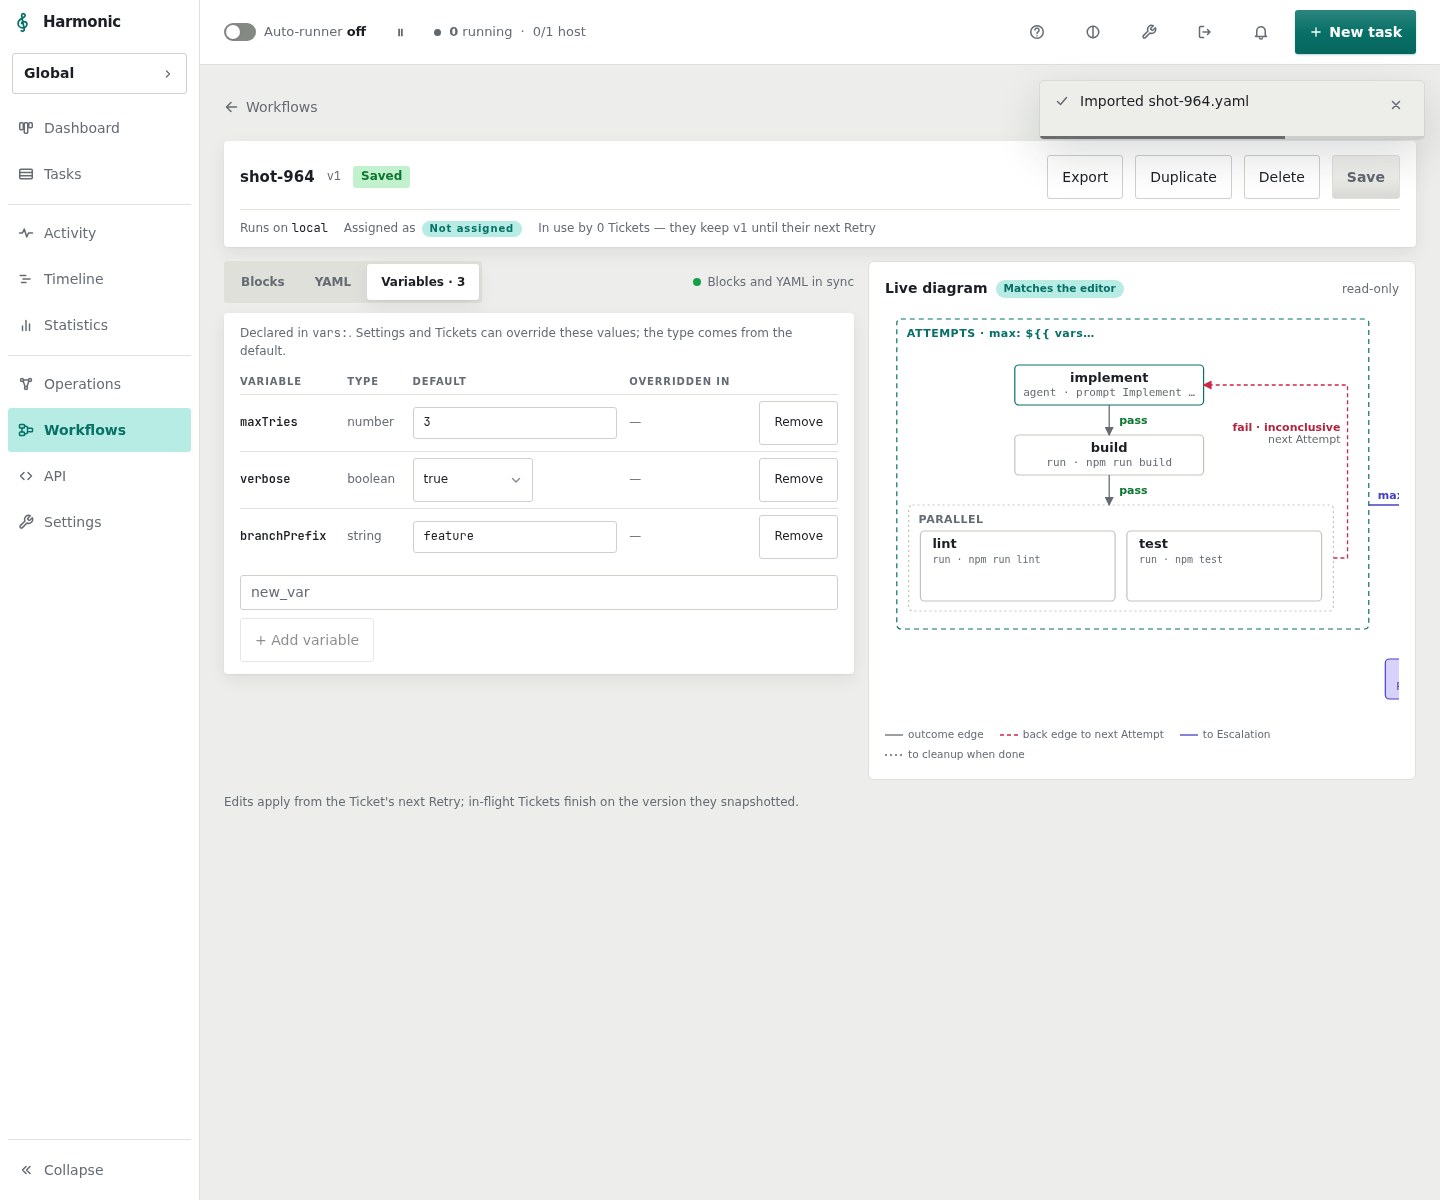
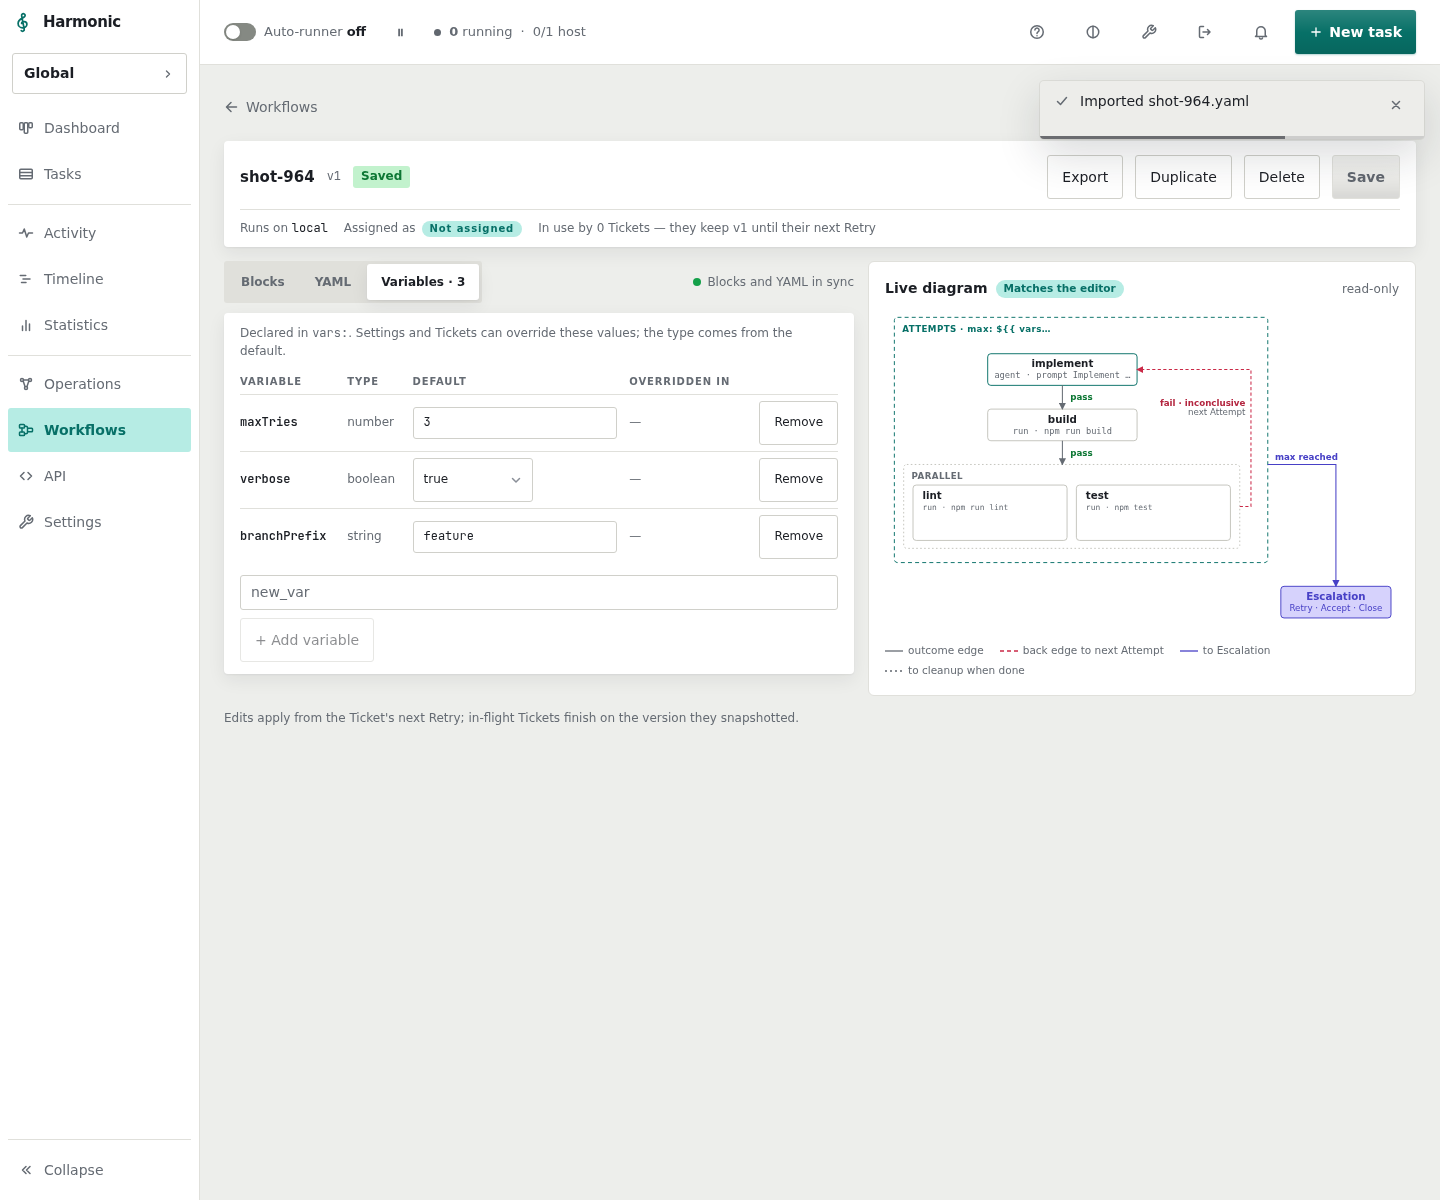
fix(workflows): scale the diagram SVG to its card so the Escalation node is not clipped (#964)

diff --git a/web/src/components/WorkflowDiagram.tsx b/web/src/components/WorkflowDiagram.tsx
@@ -122,7 +122,7 @@ export function WorkflowDiagram({ model, stale, errorCount }: { model: WorkflowD
         {!model ? (
           <p style={{ margin: 0, fontSize: 12, color: 'var(--hm-muted)' }}>Nothing to draw yet.</p>
         ) : ready && (
-          <svg role="img" aria-label="Workflow step diagram graphic" width={ready.width} height={ready.height} style={{ display: 'block', flex: 'none' }} viewBox={`0 0 ${ready.width} ${ready.height}`}>
+          <svg role="img" aria-label="Workflow step diagram graphic" width={ready.width} height={ready.height} style={{ display: 'block', width: '100%', maxWidth: ready.width, height: 'auto' }} viewBox={`0 0 ${ready.width} ${ready.height}`}>
             <defs>
               {(Object.keys(EDGE_STYLE) as DiagramEdgeKind[]).map((k) => (
                 <marker key={k} id={`wfd-arrow-${k}`} viewBox="0 0 8 8" refX={7} refY={4} markerWidth={7} markerHeight={7} orient="auto">
